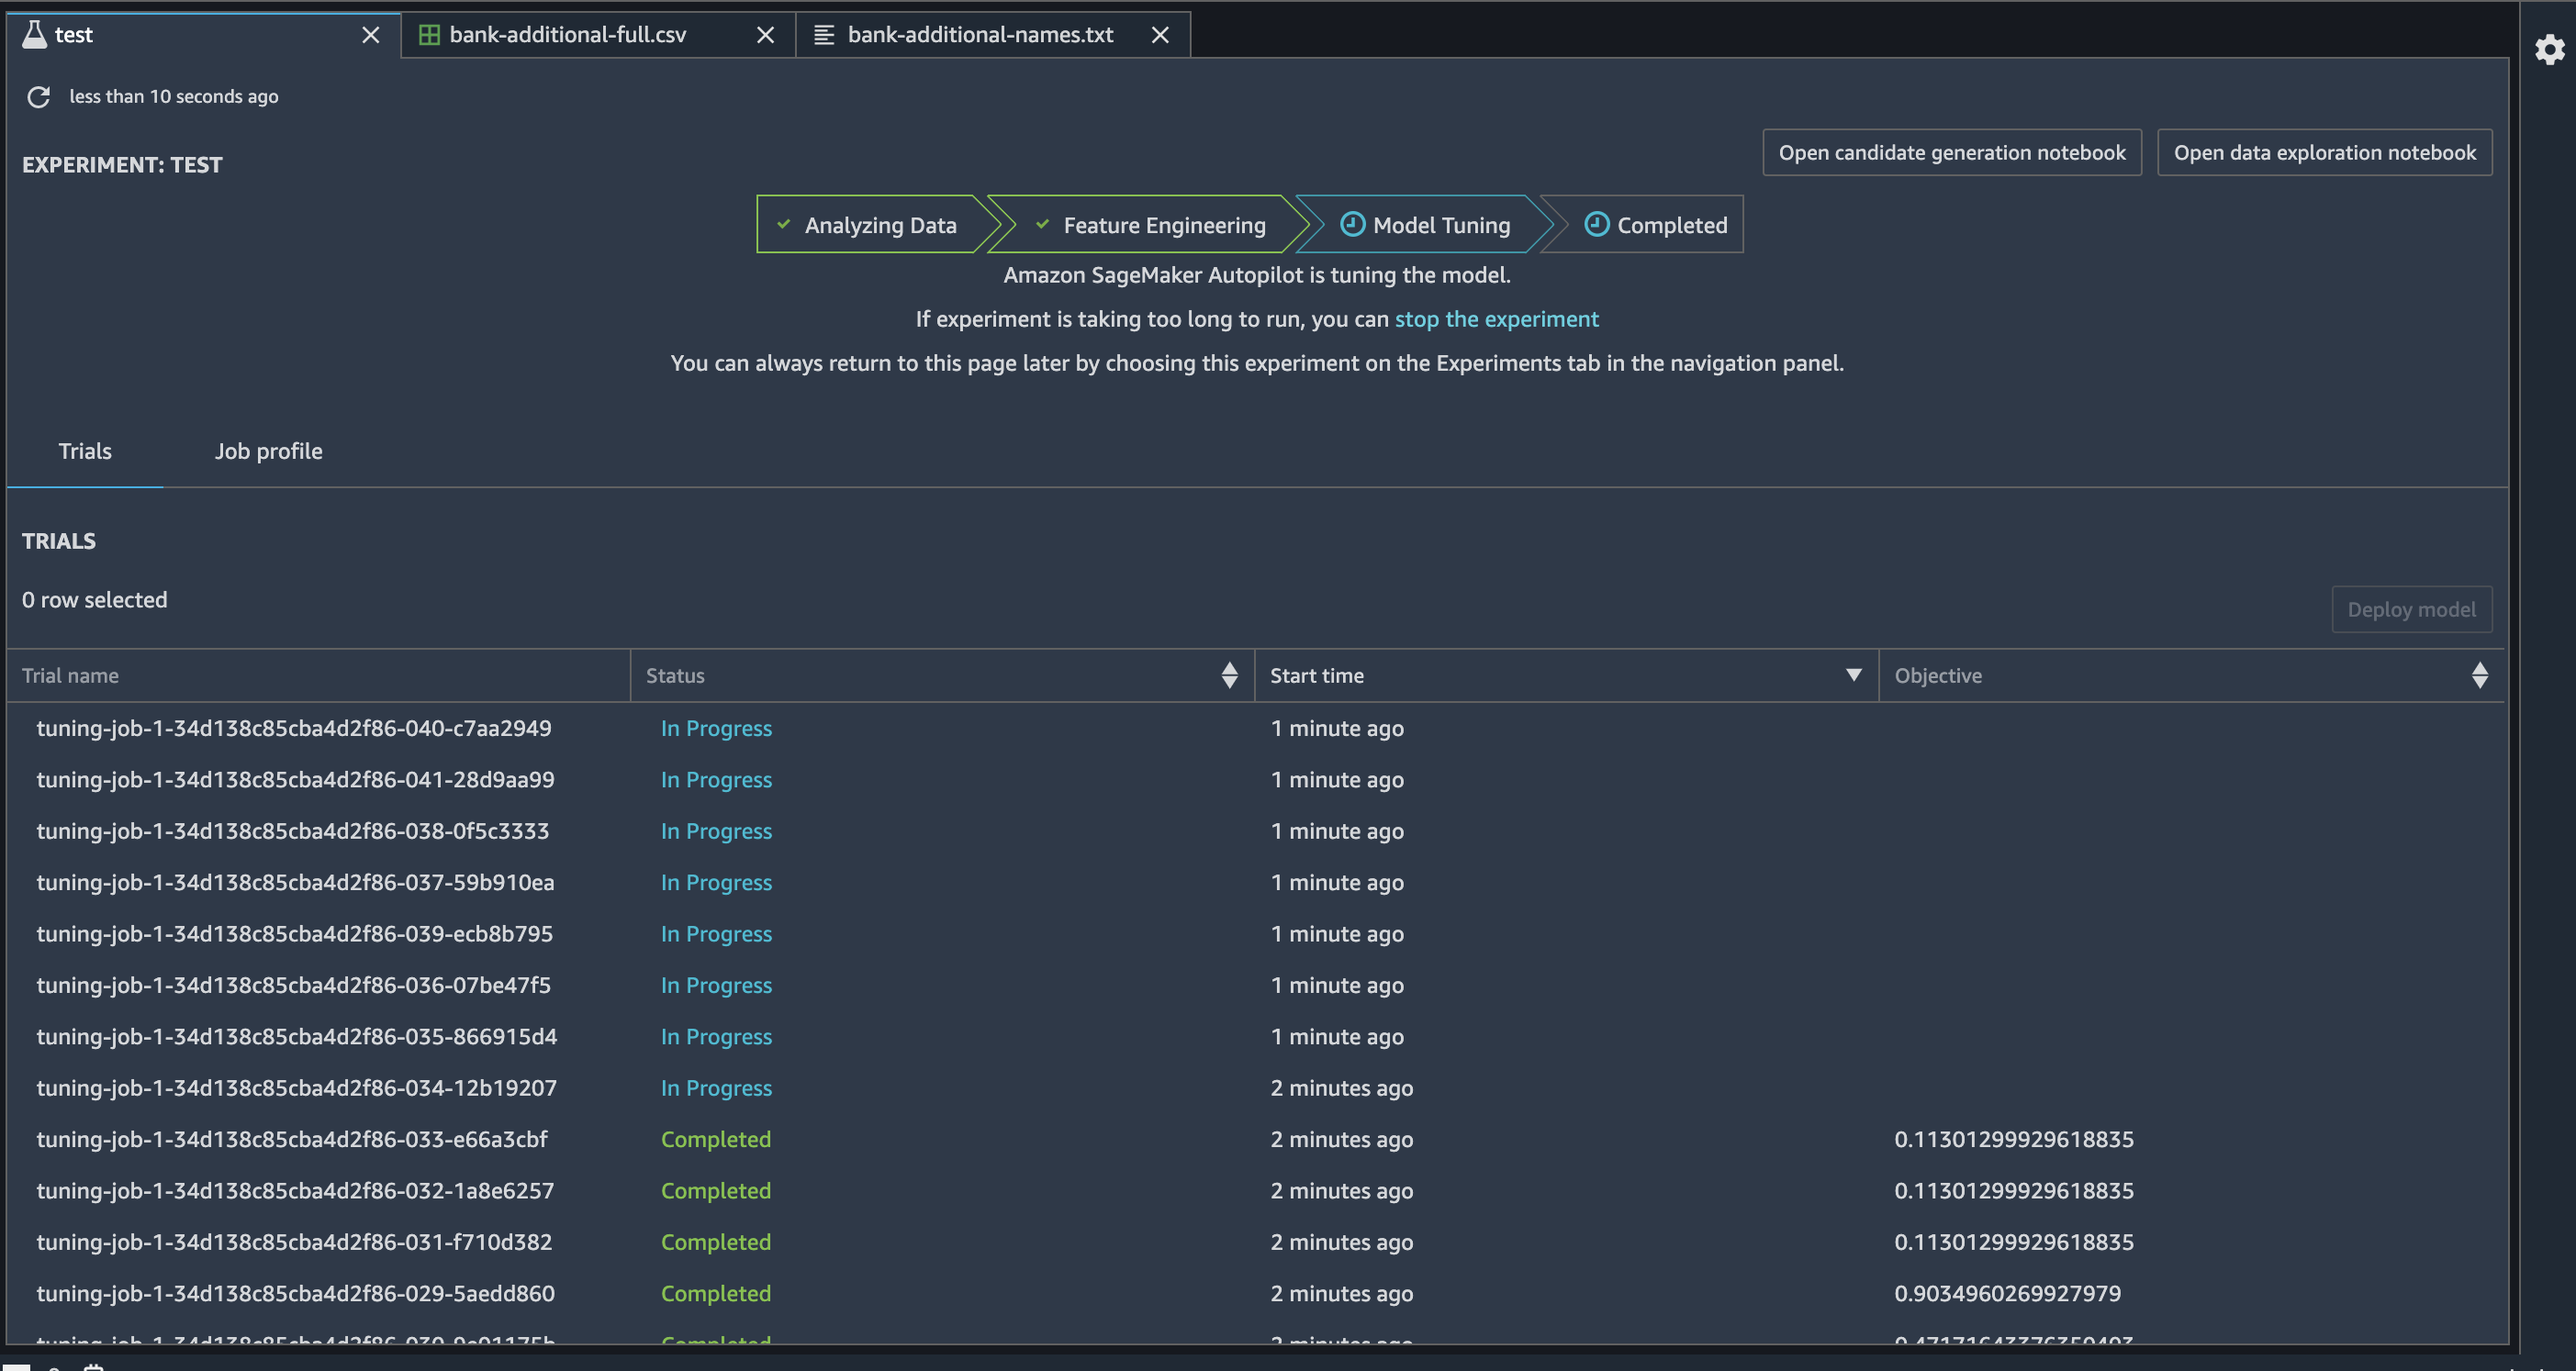
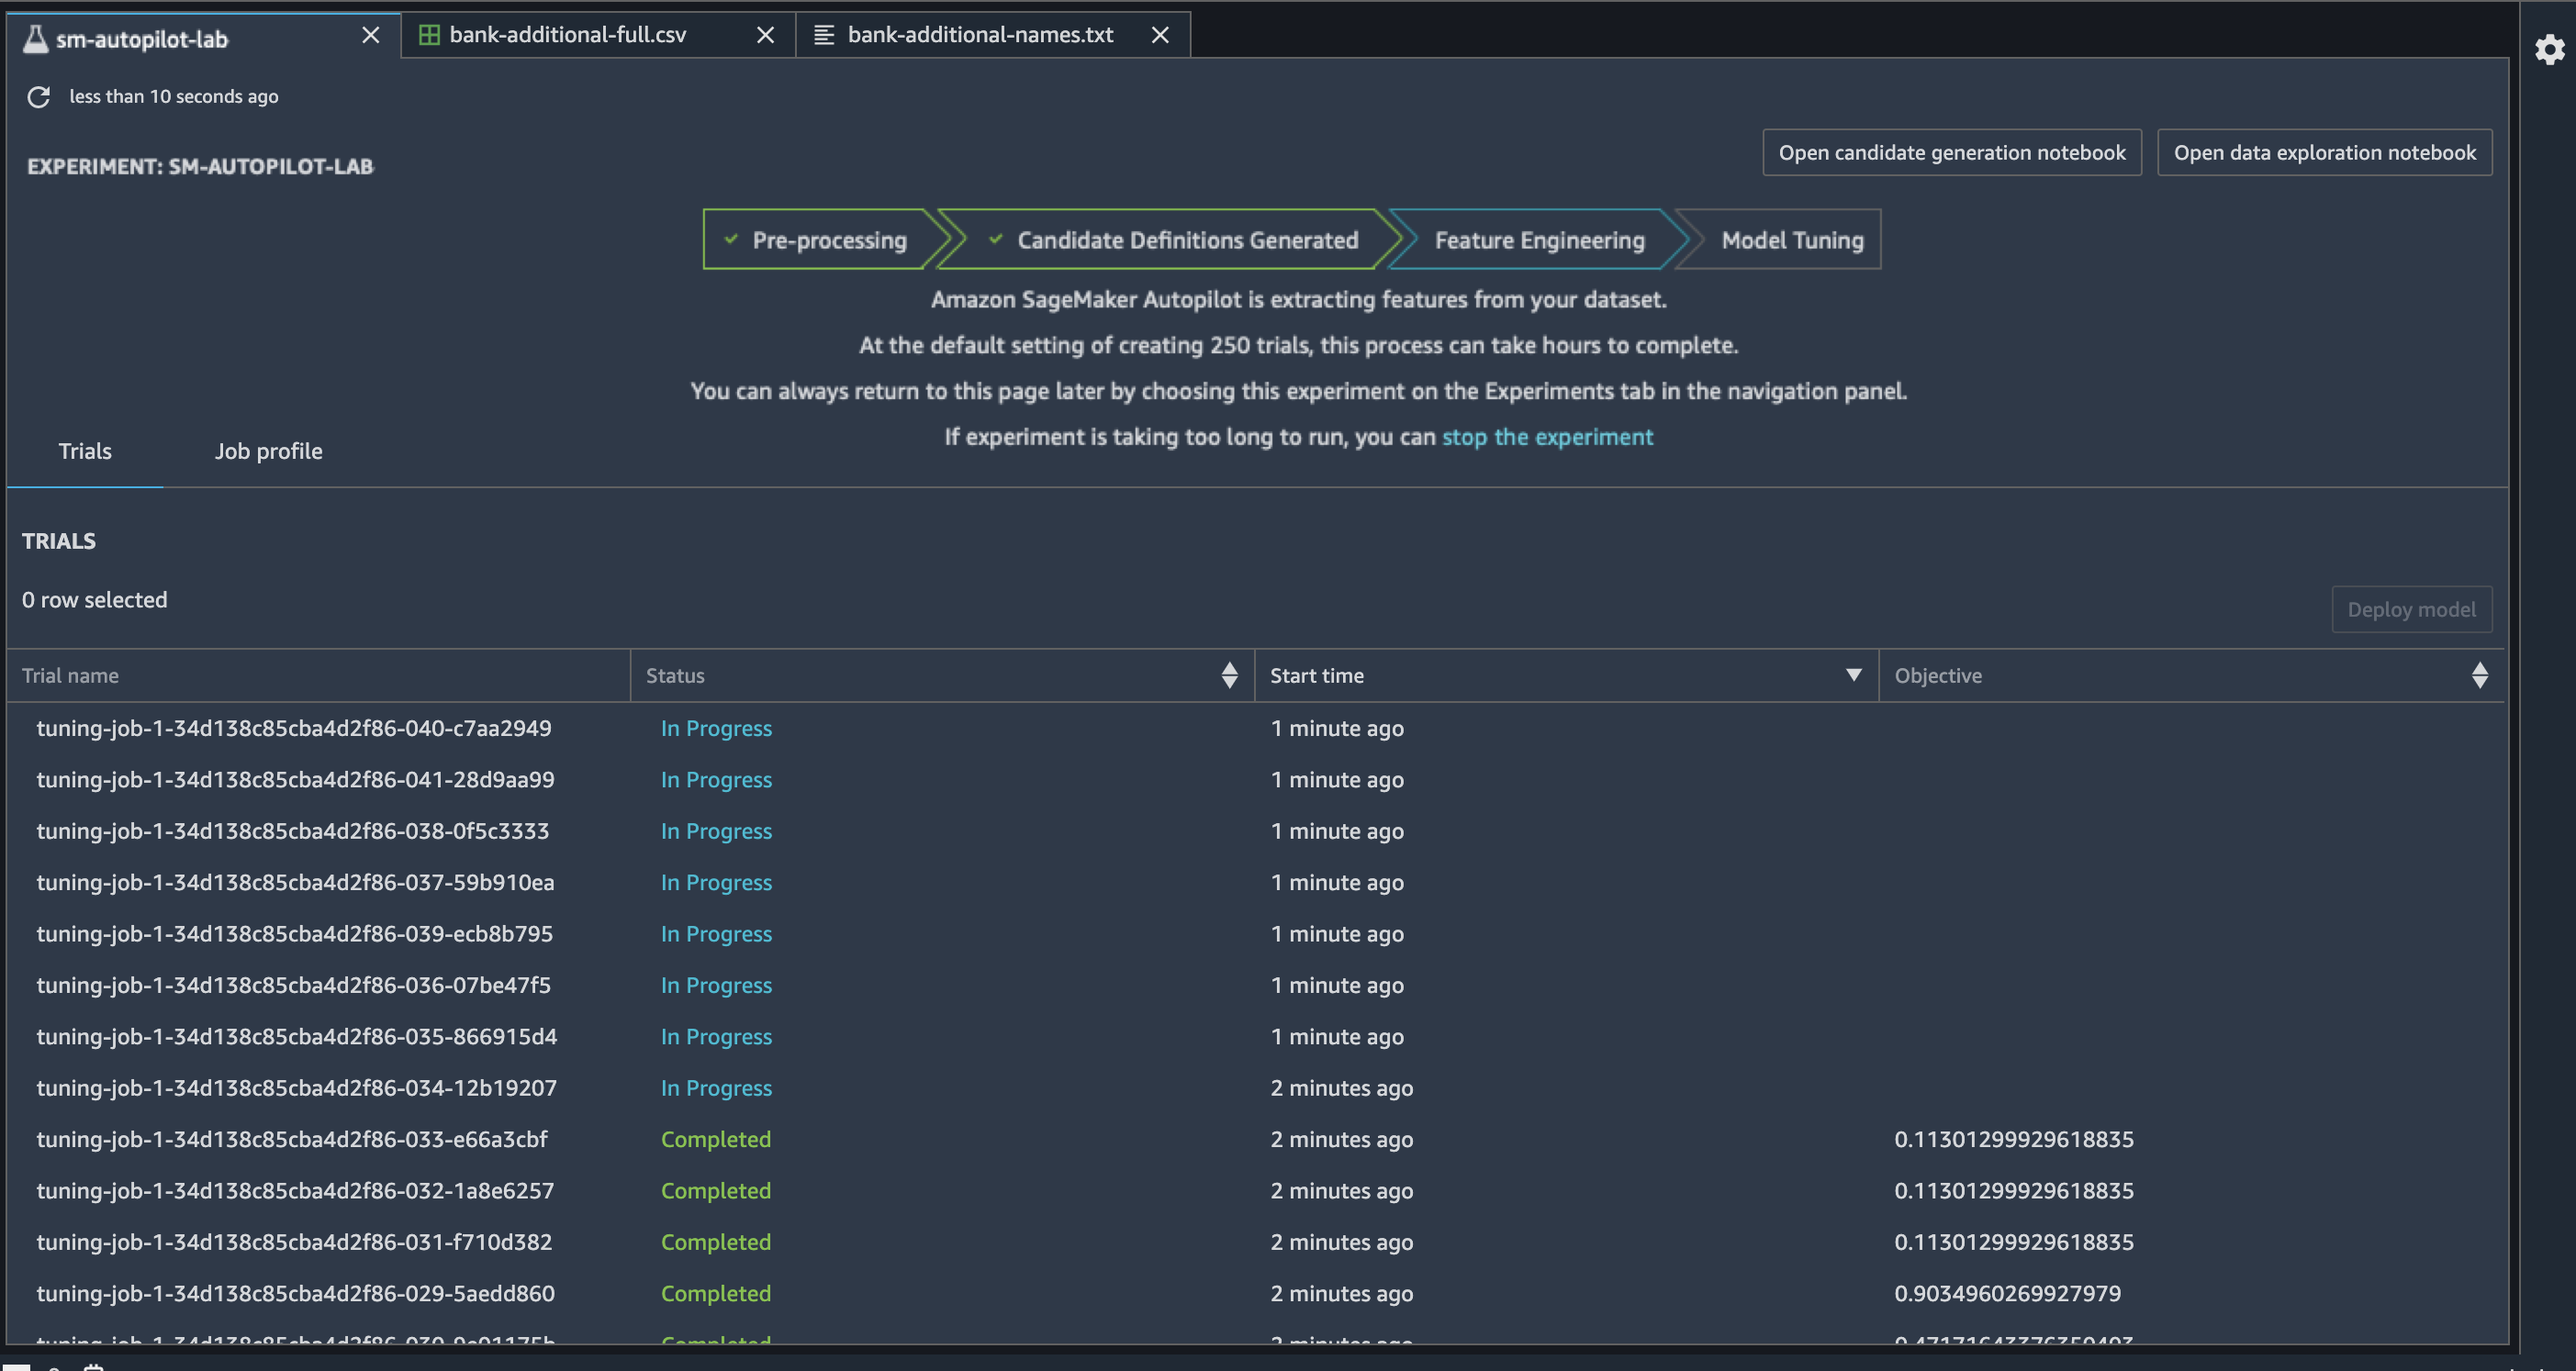
Updated screenshots & text to match UI

Changed region(s): [[0.279, 0.1232, 0.7441, 0.3387], [0.0, 0.0924, 0.155, 0.1232], [0.0, 0.0, 0.093, 0.0616]]

diff --git a/machine-learning/sagemaker-autopilot-studio/1-lab.md b/machine-learning/sagemaker-autopilot-studio/1-lab.md
@@ -107,17 +107,21 @@ For this matter, go to the Experiments tab on the left side of the screen, and c
 1. Fill in the experiment parameters as follows:
 
 * Experiment name: _sm-autopilot-lab_
-* Input data location:
+* Connect your data:
   * Select _Find S3 bucket_
-  * Choose S3 bucket name _s3://sm-autopilot-lab-YOUR_ACCOUNT_ID_
-  * Select S3 object key prefix _bank-additional-full.csv_
+  * Under S3 bucket name, select _s3://sm-autopilot-lab-YOUR_ACCOUNT_ID_
+  * Under Dataset file name, choose _bank-additional-full.csv_
 
-* Target attribute name: _y_
+* Is your S3 input a manifest file? _No (disabled_)
+
+* Target: _y_
+
+> This is the target attribute is the attribute in your dataset that you want Amazon SageMaker Autopilot to make predictions for.
 
 * Output data location:
   * Choose _Find S3 bucket_
-  * Choose S3 bucket name _s3://sm-autopilot-lab-YOUR_ACCOUNT_ID_
-  * Type S3 object key prefix _output_
+  * Under S3 bucket name, select _s3://sm-autopilot-lab-YOUR_ACCOUNT_ID_
+  * Under Dataset directory name, type the prefix _output_
 
 * Select the machine learning problem type:
   * _Auto_ or _Binary classification_
@@ -135,7 +139,7 @@ For this matter, go to the Experiments tab on the left side of the screen, and c
 
 The SageMaker Autopilot job consists of the following high-level steps:
 
-* __Analyzing Data__, where the dataset is analyzed and Autopilot comes up with a list of ML pipelines that should be tried out on the dataset. The dataset is also split into train and validation sets.
+* __Analyzing Data__, where the dataset is analyzed (_Pre-processing_) and Autopilot comes up with a list of ML pipelines (_Candidate Definitions_) that should be tried out on the dataset. The dataset is also split into train and validation sets.
 * __Feature Engineering__, where Autopilot performs feature transformation on individual features of the dataset as well as at an aggregate level.
 * __Model Tuning__, where the top performing pipeline is selected along with the optimal hyperparameters for the training algorithm (the last stage of the pipeline).
 
@@ -143,7 +147,7 @@ The SageMaker Autopilot job consists of the following high-level steps:
 
 ### Explore the generated notebooks
 
-After the __Analyzing data__ phase is completed, two new controls will be enabled on the Autopilot job window.
+After the __Candidate Definitions Generated__ phase is completed, two new controls will be enabled on the Autopilot job window.
 
 ![Notebook controls](sm-autopilot-7.png)
 
@@ -153,9 +157,9 @@ After the __Analyzing data__ phase is completed, two new controls will be enable
 
 ![Data exploration notebook](sm-autopilot-8.png)
 
-* __Open candidate definition notebook__: this button opens the _Amazon SageMaker Autopilot Candidate Definition Notebook_, that can be used to interactively step through the various steps taken by the Sagemaker Autopilot to arrive at the best candidate. This notebook can also be used to override various runtime parameters like parallelism, hardware used, algorithms explored, feature extraction scripts and more.
+* __Open candidate generation notebook__: this button opens the _Amazon SageMaker Autopilot Candidate Definition Notebook_, that can be used to interactively step through the various steps taken by the Sagemaker Autopilot to arrive at the best candidate. This notebook can also be used to override various runtime parameters like parallelism, hardware used, algorithms explored, feature extraction scripts and more.
 
-> Explore the candidate definition notebook to to understand how Autopilot generates various experiments to extract features and train the model, and finally does a multi-algorithm hyperparameter tuning.
+> Explore the candidate generation notebook to to understand how Autopilot generates various experiments to extract features and train the model, and finally does a multi-algorithm hyperparameter tuning.
 
 A SageMaker AutoPilot model candidate consists of two fundamental components: a preprocessor and an algorithm. The preprocessor defines a data transformation strategy, and the algorithm determines which specific ML approach will be used for that model candidate. Both the preprocessor and the algorithm have configurable hyperparameters that change the way the component works. These hyperparameters will be optimized later in the Experiment process as part of an automated hyperparameter tuning job.
 
